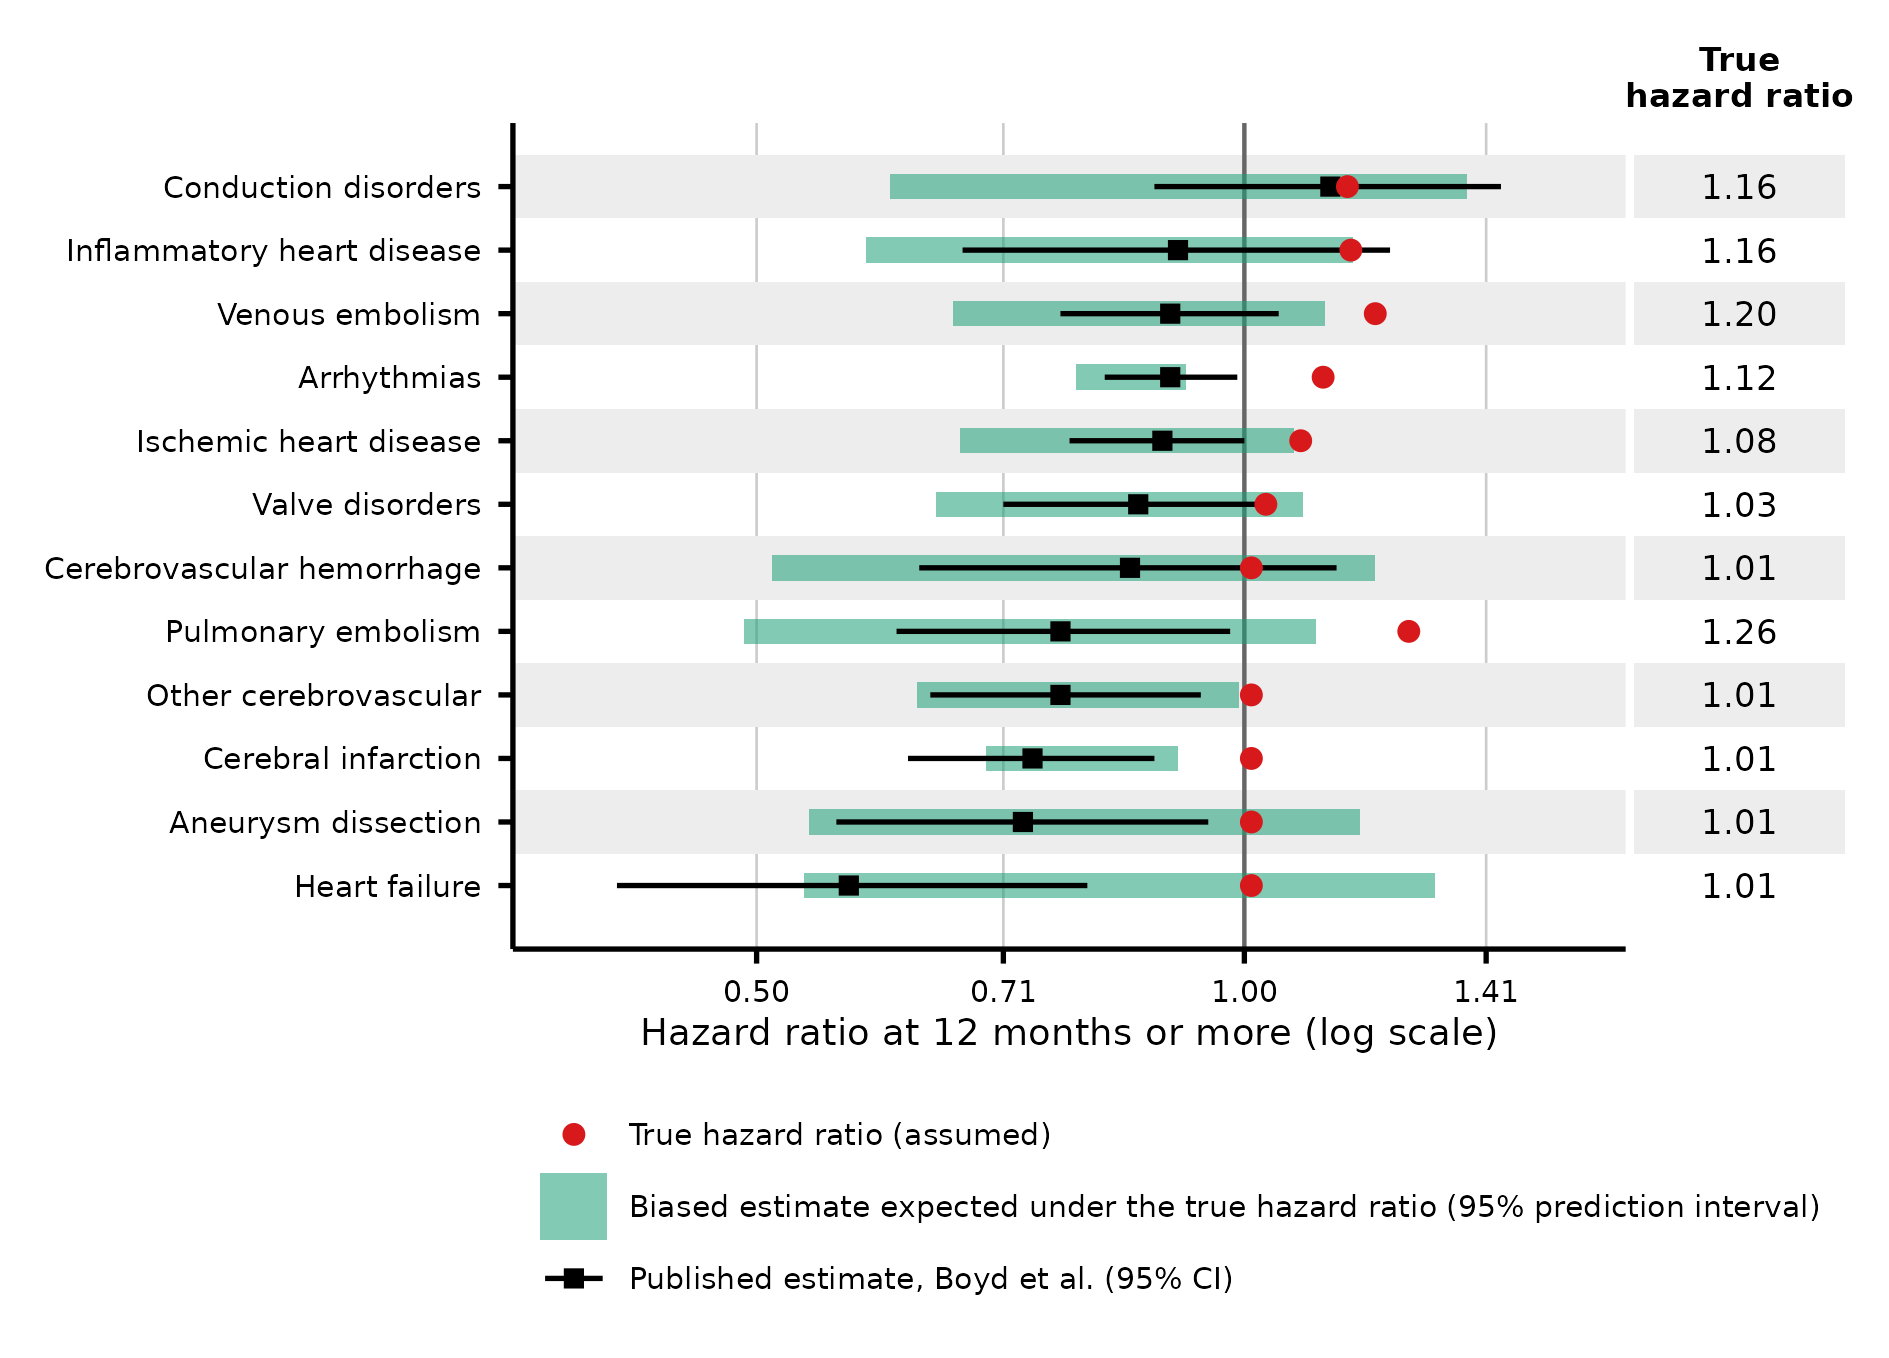
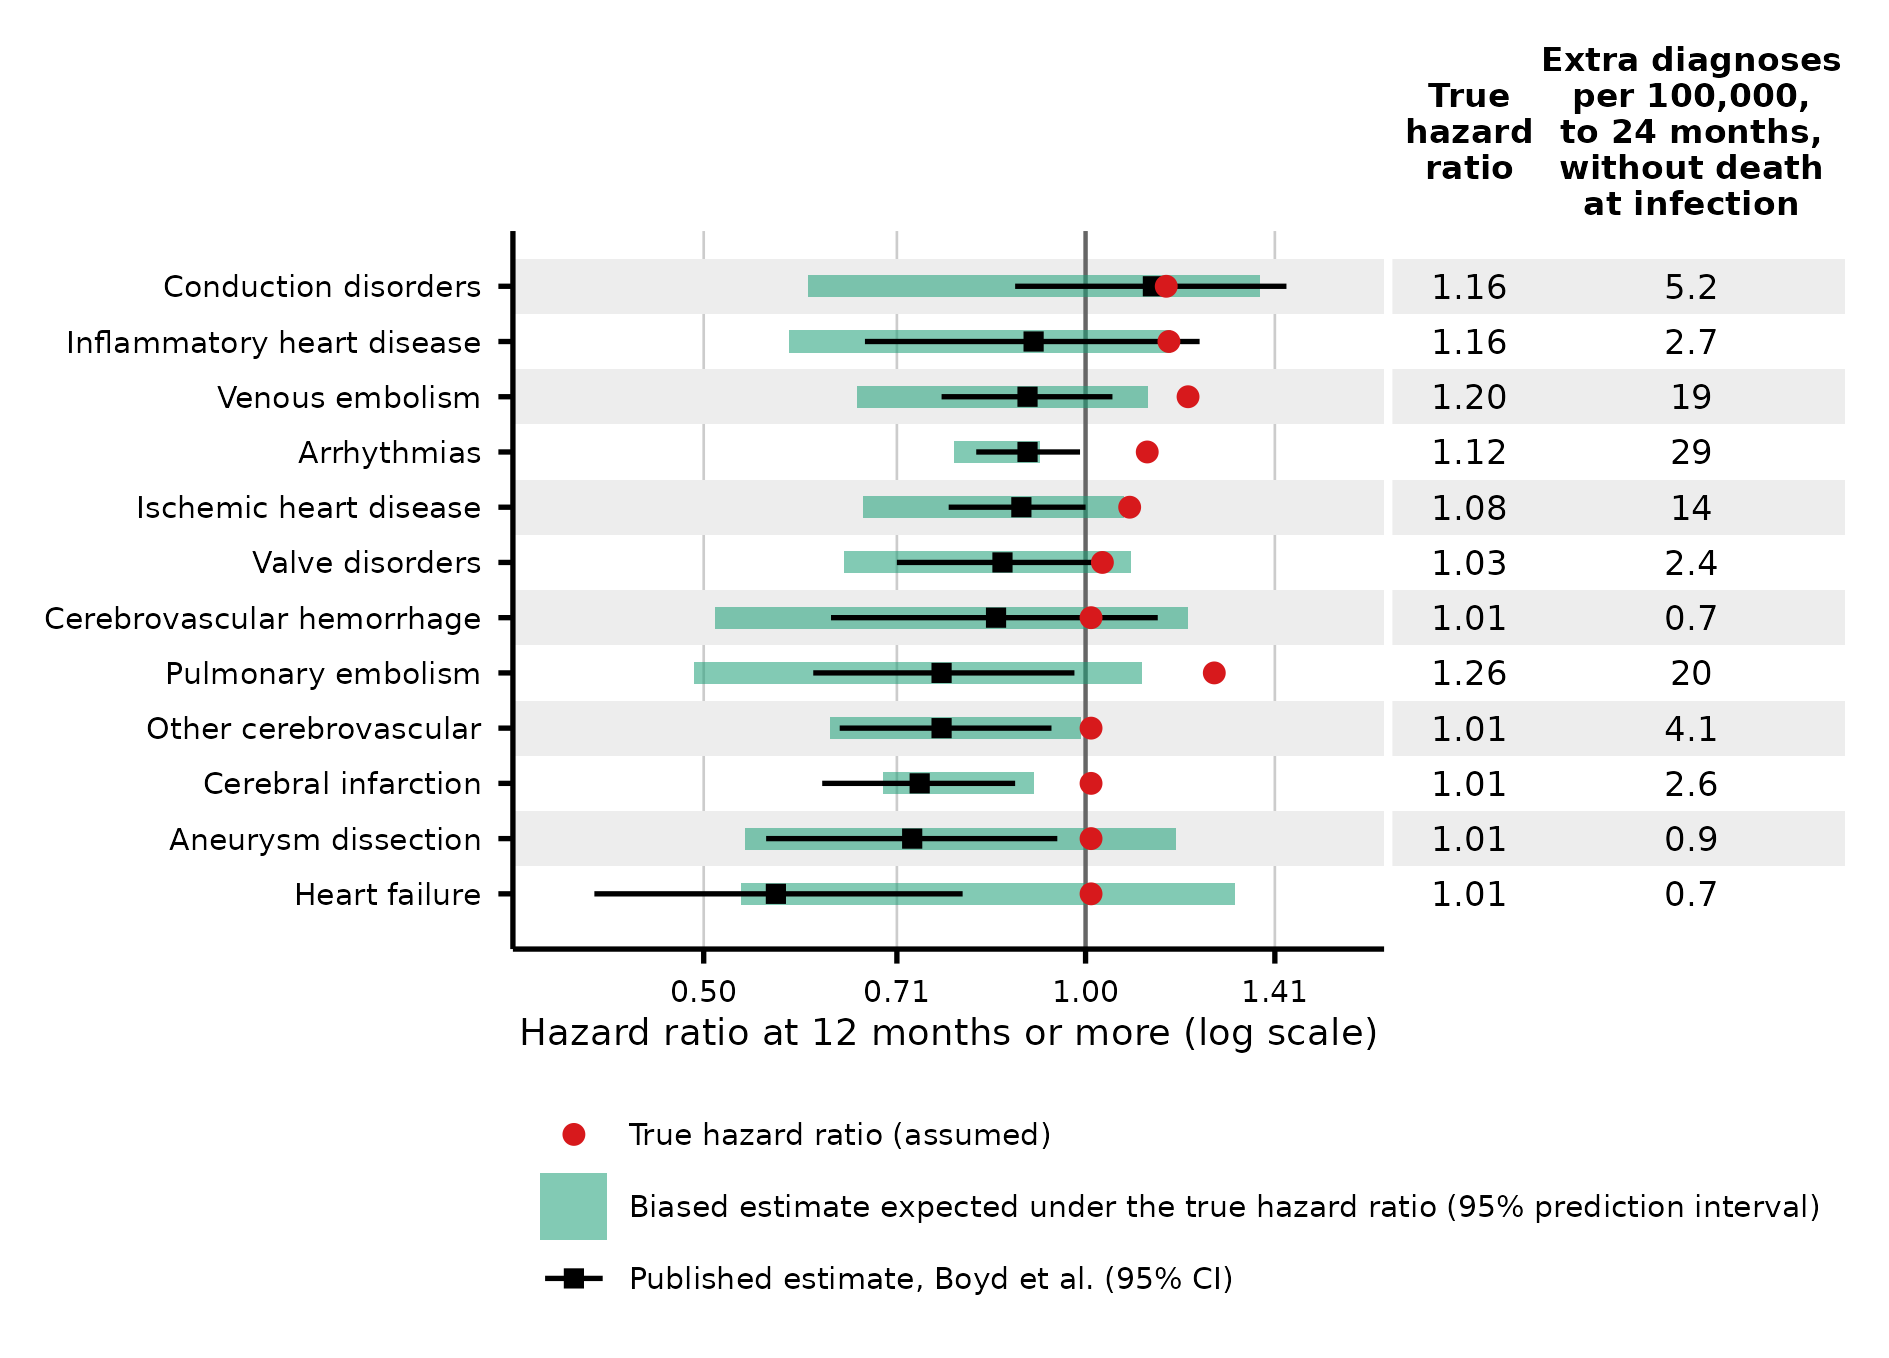
Add true risk differences to the forest figures
- Compute, per outcome and window, the counterfactual risk difference
  among persons with a recorded infection: cumulative to the window end
  (24 months for 12 months or more) and within the window.
- Print it with and without death at infection. The figures show the
  version without death at infection, as extra diagnoses per 100,000.
- Describe both in the README.

diff --git a/README.md b/README.md
@@ -13,6 +13,15 @@ Each row is one of the 12 cardiovascular outcomes with the highest baseline rate
 - **Red dot:** the assumed true hazard ratio. It is at least 1.01 in every outcome and window. It is the effect of infection on the hazard of each person, given age and frailty. It is not a population (marginal) hazard ratio.
 - **Green band:** the 95% prediction interval for the estimate of one study of this size. It comes from the 10 simulated cohorts. A cohort has an estimate in a window only if the window has at least 5 events. A band needs estimates from at least 6 cohorts, so each band is conditional on those estimates.
 - **Black square and bar:** the published estimate and its 95% CI, from Supplementary Table 1.
+- **Red numbers:** the true hazard ratio, then the true risk difference without death at infection, as extra diagnoses per 100,000 persons with a recorded infection.
+
+The true risk difference in the figures is cumulative. It compares the same persons with and without infection. It is the risk of a first diagnosis of the outcome with infection, less the risk without infection. The risk runs from the start of the analysis clock to the end of the window, and to 24 months for 12 months or more. The analysis clock starts at the infection date, or at entry for an infection before entry.
+
+The base is the persons with a recorded infection whose study period reaches the end of the window. For 12 months or more, that end is 24 months after the start. A death before the diagnosis counts as no diagnosis. A diagnosis of another outcome does not stop the follow-up. The value is the mean over the 10 cohorts. `Run.R` prints it in percentage points (pp), and 1 pp is 1,000 per 100,000.
+
+The figures give the risk difference without death at infection. With infection, each person then has their natural death time, as without infection. The baseline scale and every other setting stay the same. Death at infection removes persons before a diagnosis. For outcomes with a true hazard ratio near 1, it makes the risk difference fall below 0. That fall does not come from the effect of infection on the hazard of the outcome, which is what the figures show. `Run.R` prints the risk difference with and without death at infection.
+
+`Run.R` also prints a within-window risk difference, on the same base. It is the part of the cumulative risk difference that falls inside the window. It does not condition on survival without a diagnosis to the start of the window.
 
 The true hazard ratios are fitted to the published estimates, so the agreement below shows that the fit succeeded. It is not an independent validation. With the fitted values:
 
@@ -38,9 +47,11 @@ At 12 months or more, the true hazard ratio is 1.03 to 1.26 for 7 of the 12 outc
 - **Arithmetic.** Multiply (true HR - 1) by the test-negative rate of each outcome, and sum over the 15 outcomes. This gives 94.4 additional diagnoses per 100,000 person-years in months 1 to 11, and 77.1 from month 12. Over the 2,512,505 person-years after the first month in Supplementary Table 1, this is 2,321 diagnoses. That is 3.27% of the 70,885 persons with a CVD diagnosis. The arithmetic assumes that the test-negative rate applies to infected persons.
 - **Counterfactual.** `Run.R` simulates each cohort again without infection. The persons, their natural death times and their event thresholds stay the same. With infection, a mean of 2,381 (Monte Carlo SE 23) more persons per cohort have a CVD diagnosis. That is 52.8 per 100,000 persons, or 3.36% of 70,885. Of them, 1,488 have a recorded infection and 893 an unrecorded one.
 
-The counterfactual also gives the risk of a first CVD diagnosis in the 12 months after a recorded infection. It is 0.536% with infection and 0.486% without. The difference is 0.051 percentage points. The base is 665,687 persons per cohort with a recorded infection. Their study period runs at least 12 months past the start of their analysis clock. That start is the infection date, or entry for an infection before entry. A death in those 12 months counts as no diagnosis.
+The counterfactual also gives the risk of a first CVD diagnosis in the 12 months after a recorded infection. It is 0.536% with infection and 0.486% without. The difference is 0.051 percentage points. The base is 665,687 persons per cohort with a recorded infection. Their study period runs at least 12 months past the start of their analysis clock. A death in those 12 months counts as no diagnosis.
 
-The letter figure is [figures/forest_12m.png](figures/forest_12m.png). It shows the 12-month window only, with rows sorted by the published hazard ratio.
+The letter figure is [figures/forest_12m.png](figures/forest_12m.png). It shows the window of 12 months or more only, with rows sorted by the published hazard ratio. Its right column gives the true risk difference to 24 months without death at infection, on a base of 101,256 persons per cohort. It runs from 0.7 extra diagnoses per 100,000 for heart failure and cerebrovascular hemorrhage to 29 for arrhythmias.
+
+Without death at infection, none of the 60 cumulative risk differences, over 12 outcomes and 5 windows, is below 0. None of the 600 values of the 10 single cohorts is below 0. This follows from the model: every true hazard ratio is at least 1, and the two arms share the event thresholds and the death times. So infection can only make a diagnosis earlier. With death at infection, the risk difference to 24 months is below 0 for 4 of the 12 outcomes, and 0.00000 pp for heart failure.
 
 ## The model
 
@@ -133,7 +144,7 @@ Run `Rscript Run.R` from the repository root. It needs R 4.6 with data.table, gg
 
 `Run.R` sets the model in its CFG section, and sources the functions in `R/functions.R`. It checks the md5 of the 3 SSI files in `data/ssi/`. It stops if a value in CFG differs from the SSI file that it comes from. It prints the tables above, draws the 5 figures into `figures/`, and saves the estimates to `results/run.rds`.
 
-In one measured run with 2 workers, it took 961 seconds on a 20-core Linux machine. The largest R process peaked at 11.07 GiB of memory, and all R processes together at 20.44 GiB. Memory was sampled every second, so these are lower bounds. Run it on a machine with at least 25 GB of free memory. On Windows the run uses 1 worker.
+In one measured run with 2 workers, it took 1043 seconds on a 20-core Linux machine. The largest R process peaked at 10.98 GiB of memory, and all R processes together at 20.79 GiB. Memory was sampled every second, so these are lower bounds. Run it on a machine with at least 25 GB of free memory. On Windows the run uses 1 worker.
 
 ## Layout
 
